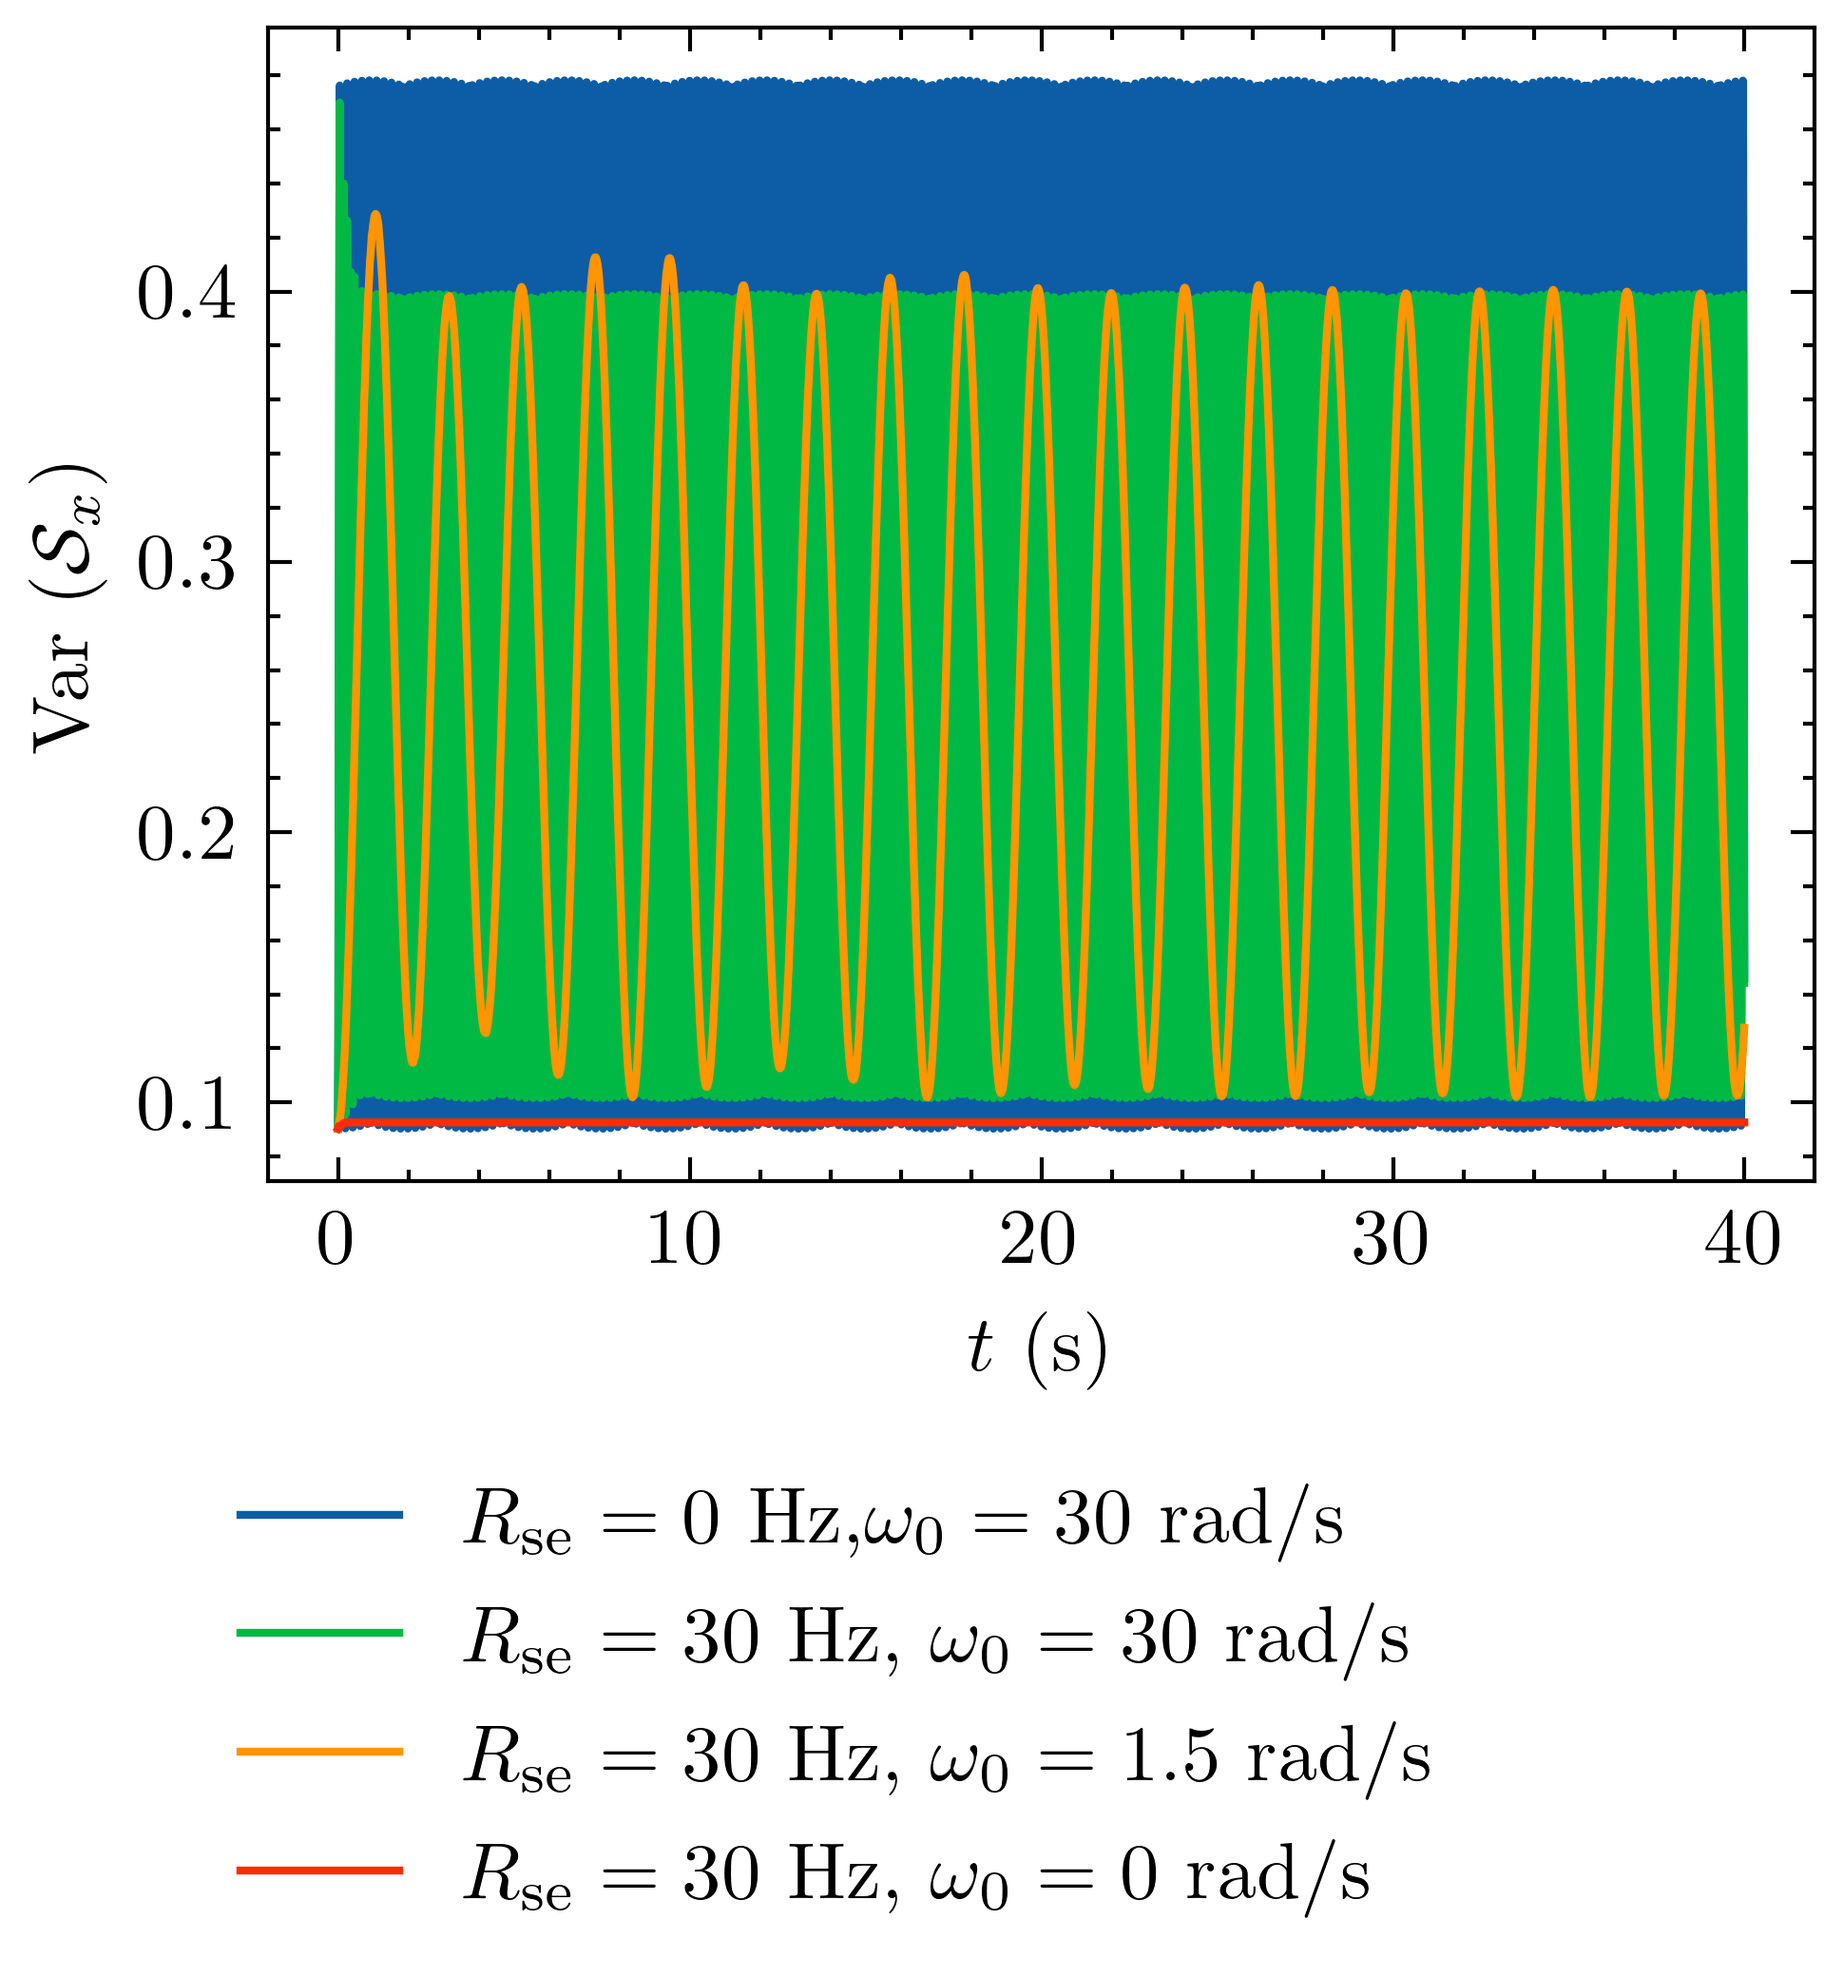
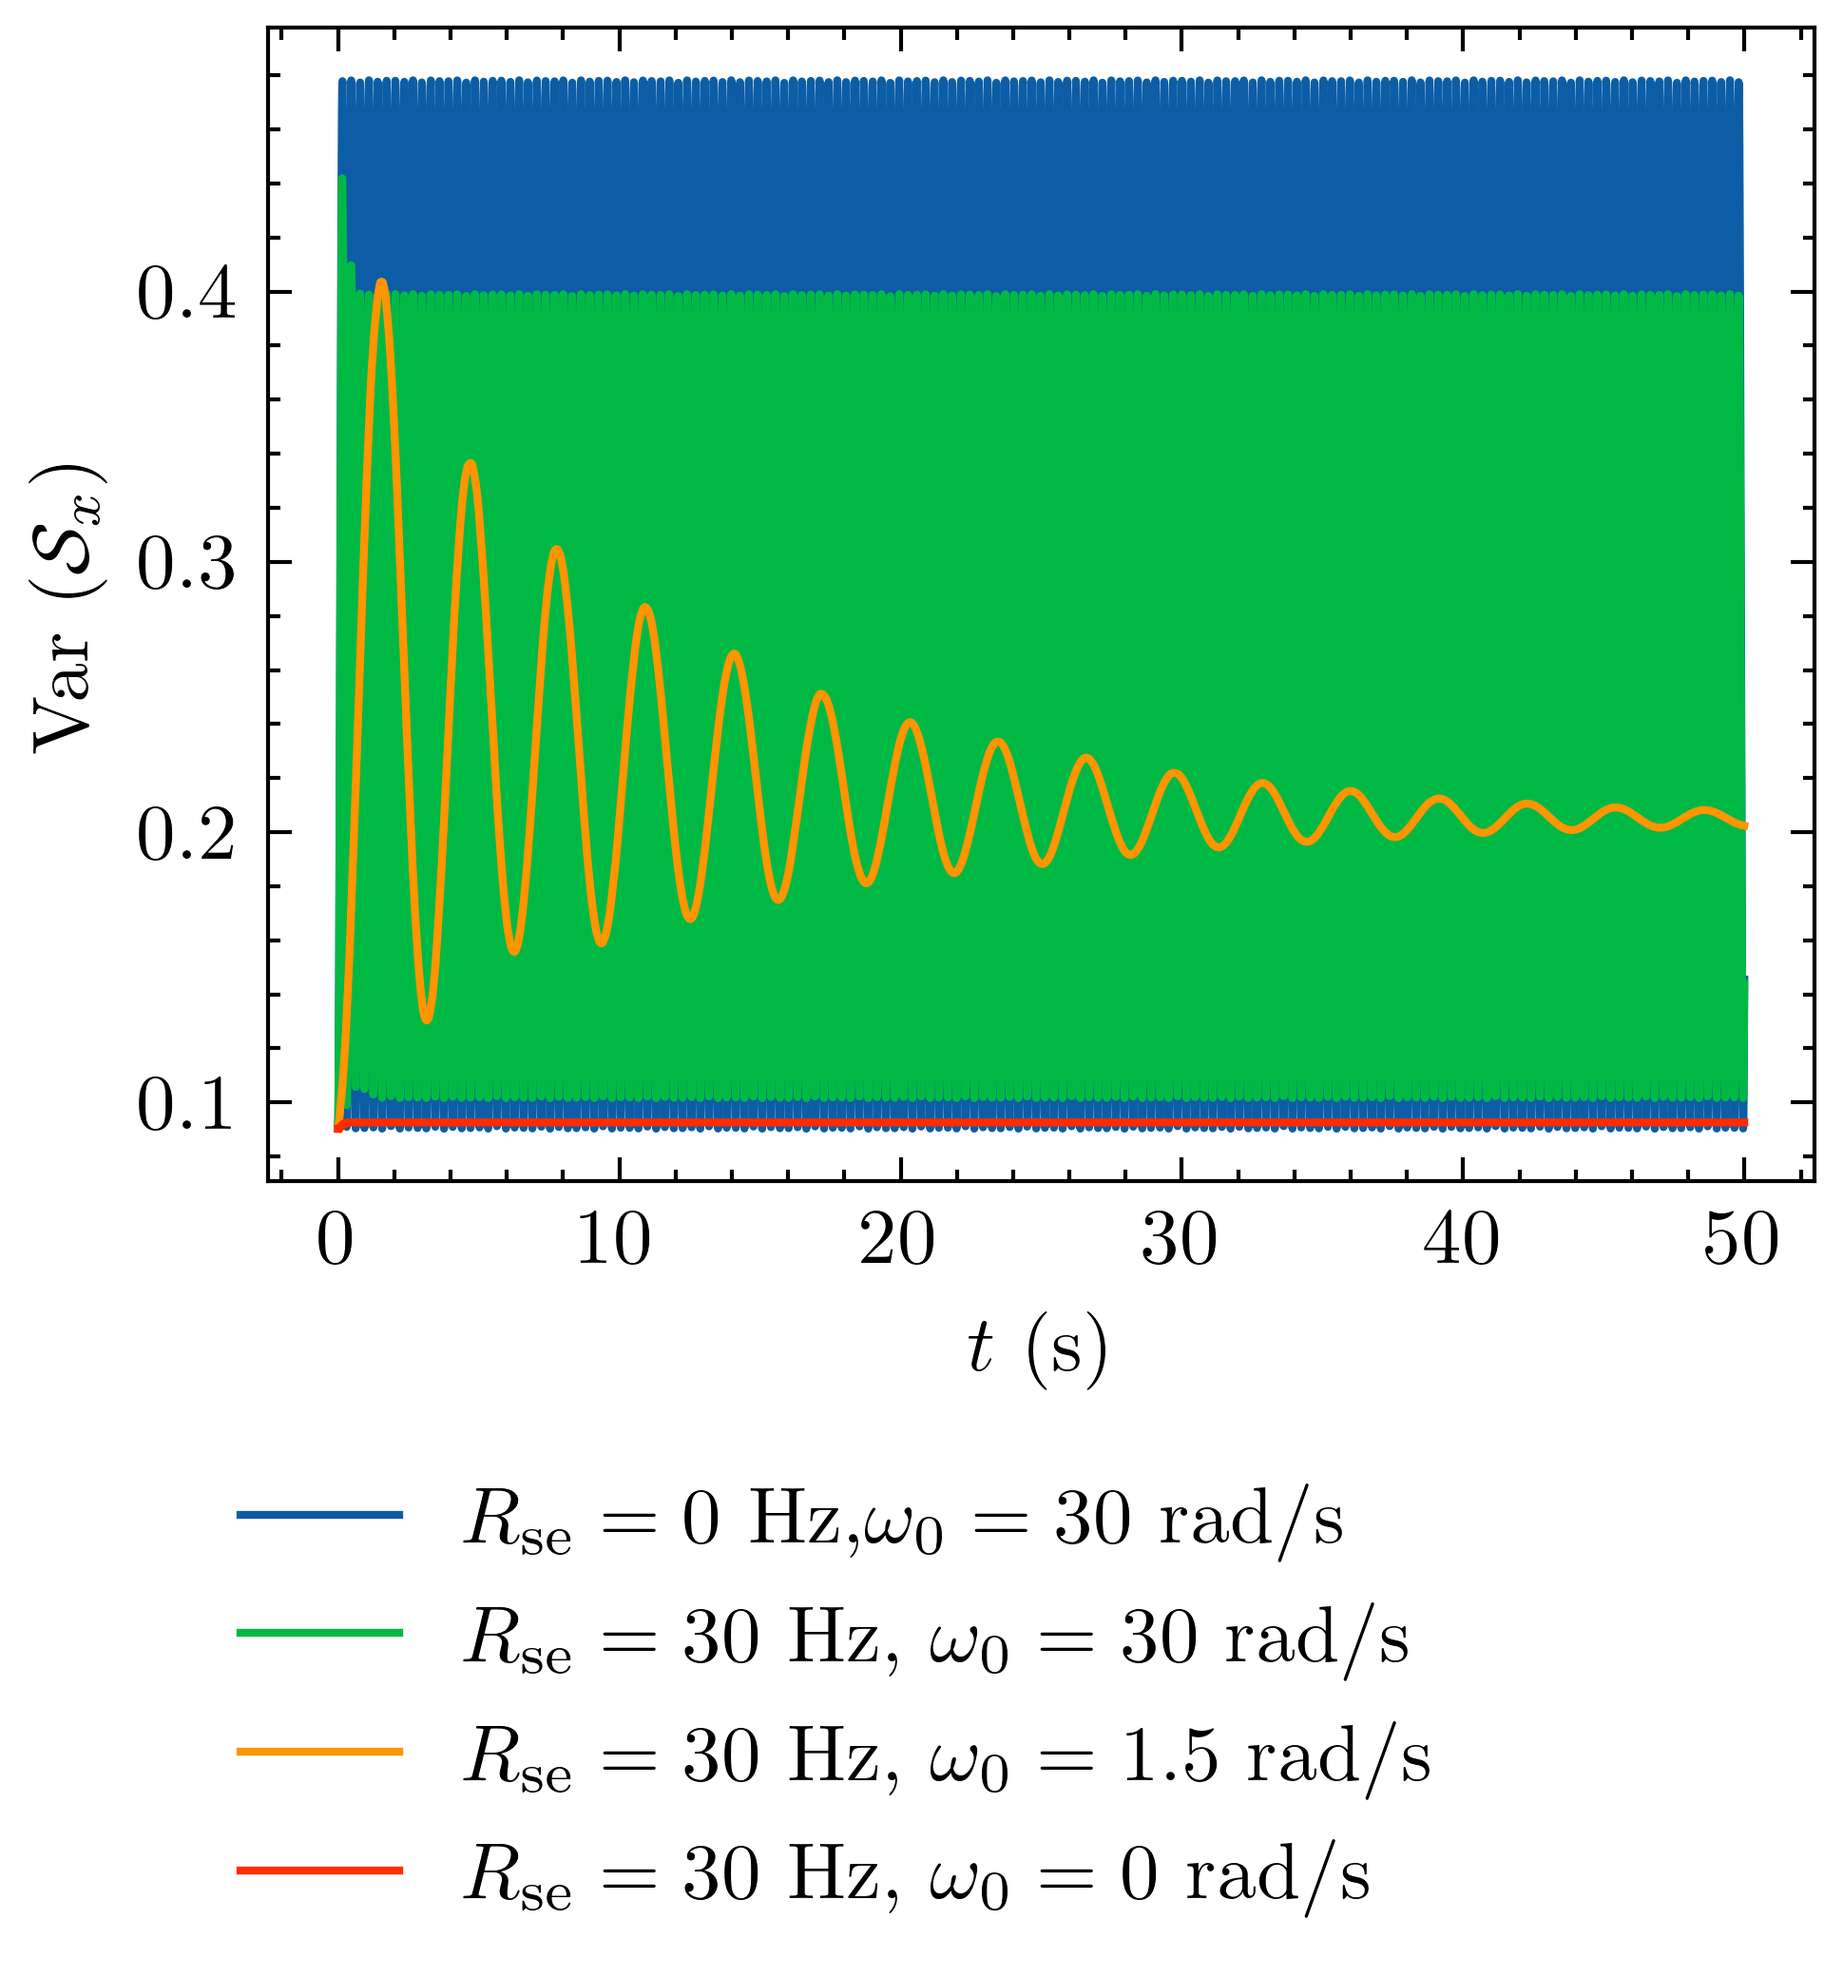
1

diff --git a/Correlations_and_squeezing/desqueezing by Zeeman and hyperfine effect.py b/Correlations_and_squeezing/desqueezing by Zeeman and hyperfine effect.py
@@ -40,45 +40,15 @@ az = spin_Jz(a)
 bx = spin_Jx(b)
 by = spin_Jy(b)
 bz = spin_Jz(b)
+omega_0=10
+# ----------------------Hyperfine interaction--------------------#
+hyperfine = block_diag(np.ones((2 * a + 1, 2 * a + 1)), np.ones((2 * b + 1, 2 * b + 1)))  # 一个原子
+
 if N == 2:
     a1x, a2x, a1y, a2y, a1z, a2z, b1x, b2x, b1y, b2y, b1z, b2z, Fx, Fy, Fz = spin_operators_of_2or1_alkali_metal_atoms(
         2, I)
-if N == 3:
-    a1x, a2x, a3x, a1y, a2y, a3y, a1z, a2z, a3z, b1x, b2x, b3x, b1y, b2y, b3y, b1z, b2z, b3z, Fx, Fy, Fz = spin_operators_of_2or1_alkali_metal_atoms(
-        3, I)
-    Fx = a1x + a2x + a3x + b1x + b2x + b3x
-    Fz = a1z + a2z + a3z + b1z + b2z + b3z
-# ----------------------squeezing----------------------#
-
-ini_Rho_atom, Rho_atom = Generate_a_squeezed_state_by_QND(2, I, T_sq, s, alpha, dt)
-
-
-if N == 3:
-    Rho_atom3 = np.zeros(2 * (a + b + 1))
-    # --------------------------------Define the initial state-----------------------------------#
-    theta = np.pi / 2
-    phi = 0
-    a_theta = spin_Jx(a) * np.sin(theta) * np.cos(phi) + spin_Jy(a) * np.sin(theta) * np.sin(phi) + spin_Jz(a) * np.cos(
-        theta)
-    b_theta = spin_Jx(b) * np.sin(theta) * np.cos(phi) + spin_Jy(b) * np.sin(theta) * np.sin(phi) + spin_Jz(b) * np.cos(
-        theta)
-    qa, va = np.linalg.eig(np.array(a_theta.full()))
-    qb, vb = np.linalg.eig(np.array(b_theta.full()))
-    vs = block_diag(va, vb)
-    qs = np.hstack((qa, qb))
-    # # -----------------spin temperature state-----------------#
-    P = 0.9999999999999
-    beta = np.log((1 + P) / (1 - P))
-    for i in np.arange(0, 2 * (a + b + 1), 1):
-        Rho_atom3 =Rho_atom3 + np.exp(beta * qs[i]) * vs[:, [i]] * vs[:, [i]].T.conjugate()
-    Rho_atom3 = Rho_atom3 / np.trace(Rho_atom3)
-
-    # Rho_atom3 = np.eye(8)/8
-    Rho_atomi = np.kron(Rho_atom, Rho_atom3)
-# ----------------------Evolution of the spin under magnetic field and hyperfine interaction----------------------#
-
-# ----------------------electron spin----------------------#
-if N == 2:
+    H = omega_0 * (a1x + a2x - b1x - b2x)  # 两个原子
+    hyperfine = np.kron(hyperfine, hyperfine)  # 两个原子
     Sx = np.kron(np.eye(round(2 * I + 1)), np.array(1 / 2 * sigmax().full()))
     Sx = U.T.conjugate() @ Sx @ U
     Sy = np.kron(np.eye(round(2 * I + 1)), np.array(1 / 2 * sigmay().full()))
@@ -97,6 +67,13 @@ if N == 2:
     Pt12 = 3 / 4 * np.eye(round((2 * (2 * I + 1)) ** N)) + (S1x @ S2x + S1y @ S2y + S1z @ S2z)
     Pe12 = Pt12 - Ps12
 if N == 3:
+    a1x, a2x, a3x, a1y, a2y, a3y, a1z, a2z, a3z, b1x, b2x, b3x, b1y, b2y, b3y, b1z, b2z, b3z, Fx, Fy, Fz = spin_operators_of_2or1_alkali_metal_atoms(
+        3, I)
+    H = omega_0 * (a1x + a2x + a3x - b1x - b2x - b3x)  # 三个原子
+    hyperfine = np.kron(hyperfine, np.kron(hyperfine, hyperfine))  # 三个原子
+
+    Fx = a1x + a2x + a3x + b1x + b2x + b3x
+    Fz = a1z + a2z + a3z + b1z + b2z + b3z
     Sx = np.kron(np.eye(round(2 * I + 1)), np.array(1 / 2 * sigmax().full()))
     Sx = U.T.conjugate() @ Sx @ U
     Sy = np.kron(np.eye(round(2 * I + 1)), np.array(1 / 2 * sigmay().full()))
@@ -125,8 +102,34 @@ if N == 3:
     Ps23 = 1 / 4 * np.eye(round((2 * (2 * I + 1)) ** N)) - (S2x @ S3x + S2y @ S3y + S2z @ S3z)
     Pt23 = 3 / 4 * np.eye(round((2 * (2 * I + 1)) ** N)) + (S2x @ S3x + S2y @ S3y + S2z @ S3z)
     Pe23 = Pt23 - Ps23
+# ----------------------squeezing----------------------#
+ini_Rho_atom, Rho_atom = Generate_a_squeezed_state_by_QND(2, I, T_sq, s, alpha, dt)
 
-T = 40
+
+if N == 3:
+    Rho_atom3 = np.zeros(2 * (a + b + 1))
+    # --------------------------------Define the initial state-----------------------------------#
+    theta = np.pi / 2
+    phi = 0
+    a_theta = spin_Jx(a) * np.sin(theta) * np.cos(phi) + spin_Jy(a) * np.sin(theta) * np.sin(phi) + spin_Jz(a) * np.cos(
+        theta)
+    b_theta = spin_Jx(b) * np.sin(theta) * np.cos(phi) + spin_Jy(b) * np.sin(theta) * np.sin(phi) + spin_Jz(b) * np.cos(
+        theta)
+    qa, va = np.linalg.eig(np.array(a_theta.full()))
+    qb, vb = np.linalg.eig(np.array(b_theta.full()))
+    vs = block_diag(va, vb)
+    qs = np.hstack((qa, qb))
+    # # -----------------spin temperature state-----------------#
+    P = 0.9999999999999
+    beta = np.log((1 + P) / (1 - P))
+    for i in np.arange(0, 2 * (a + b + 1), 1):
+        Rho_atom3 =Rho_atom3 + np.exp(beta * qs[i]) * vs[:, [i]] * vs[:, [i]].T.conjugate()
+    Rho_atom3 = Rho_atom3 / np.trace(Rho_atom3)
+
+    # Rho_atom3 = np.eye(8)/8
+    Rho_atomi = np.kron(Rho_atom, Rho_atom3)
+# ----------------------Evolution of the spin under magnetic field and hyperfine interaction----------------------#
+T = 50
 dt = 0.01
 n = round(T / dt)
 te = np.arange(0, T, dt)
@@ -146,17 +149,7 @@ C_a1za2z2 = [None] * n
 C_a1zb2z2 = [None] * n
 C_b1zb2z2 = [None] * n
 
-# ----------------------Hyperfine interaction--------------------#
-hyperfine = block_diag(np.ones((2 * a + 1, 2 * a + 1)), np.ones((2 * b + 1, 2 * b + 1)))  # 一个原子
-if N == 2:
-    hyperfine = np.kron(hyperfine, hyperfine)  # 两个原子
-if N == 3:
-    hyperfine = np.kron(hyperfine, np.kron(hyperfine, hyperfine))  # 三个原子
-# ----------------------Magnetic field----------------------#
-omega_0 = 30
-# H = omega_e * (ax-bx)              #一个原子
-# H = omega_0 * (a1x + a2x - b1x - b2x)  # 两个原子
-H = omega_0 * (a1x + a2x + a3x - b1x - b2x - b3x)  # 三个原子
+
 
 q, v = np.linalg.eig(H)
 evolving_B = v @ np.diag(np.exp(-1j * q * dt)) @ np.linalg.inv(v)
@@ -188,12 +181,6 @@ for t in np.arange(0, n, 1):
         Rho_atom = sec @ Rho_atom @ sec.T.conjugate()
     Rho_atom = hyperfine * Rho_atom
 
-# ----------------------Magnetic field----------------------#
-omega_0 = 30
-# H = omega_e * (ax-bx)              #一个原子
-# H = omega_0 * (a1x + a2x - b1x - b2x)  # 两个原子
-H = omega_0 * (a1x + a2x + a3x - b1x - b2x - b3x)  # 三个原子
-
 q, v = np.linalg.eig(H)
 evolving_B = v @ np.diag(np.exp(-1j * q * dt)) @ np.linalg.inv(v)
 Rho_atom = Rho_atomi
@@ -219,8 +206,8 @@ for t in np.arange(0, n, 1):
 # ----------------------Magnetic field----------------------#
 omega_0 = 1.5
 # H = omega_e * (ax-bx)              #一个原子
-# H = omega_0 * (a1x + a2x - b1x - b2x)  # 两个原子
-H = omega_0 * (a1x + a2x + a3x - b1x - b2x - b3x)  # 三个原子
+H = omega_0 * (a1x + a2x - b1x - b2x)  # 两个原子
+# H = omega_0 * (a1x + a2x + a3x - b1x - b2x - b3x)  # 三个原子
 
 q, v = np.linalg.eig(H)
 evolving_B = v @ np.diag(np.exp(-1j * q * dt)) @ np.linalg.inv(v)
